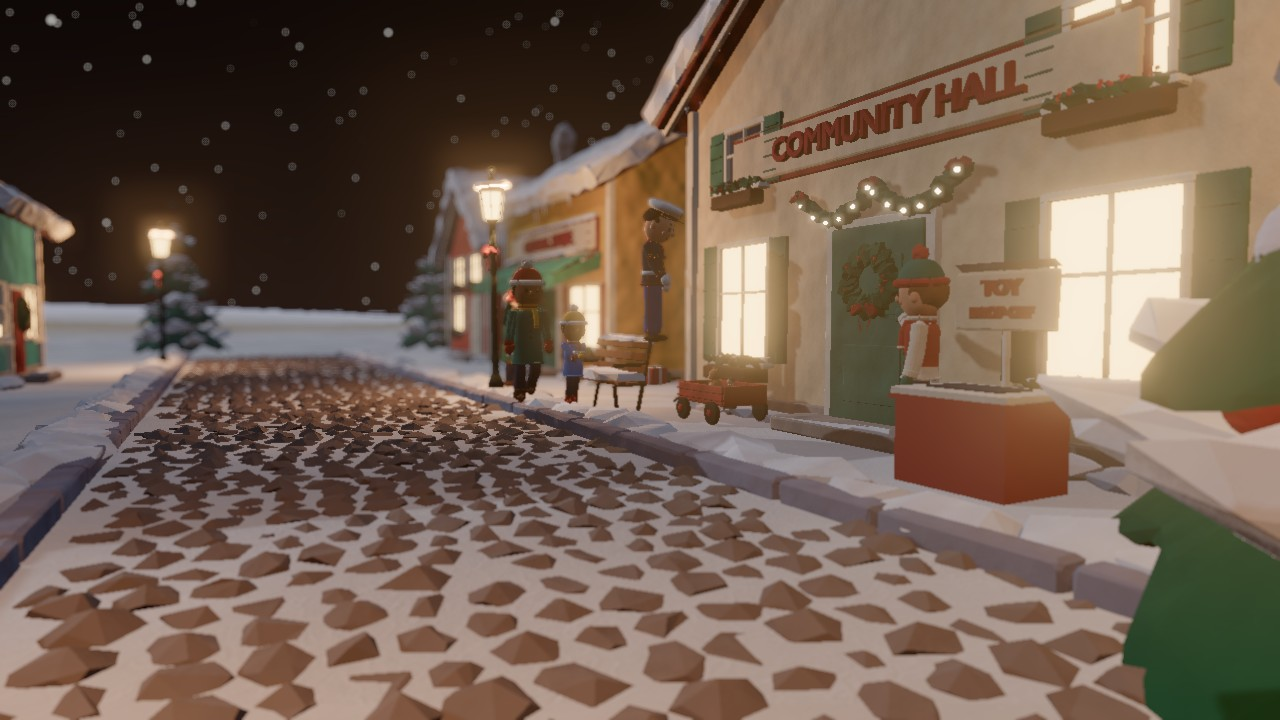
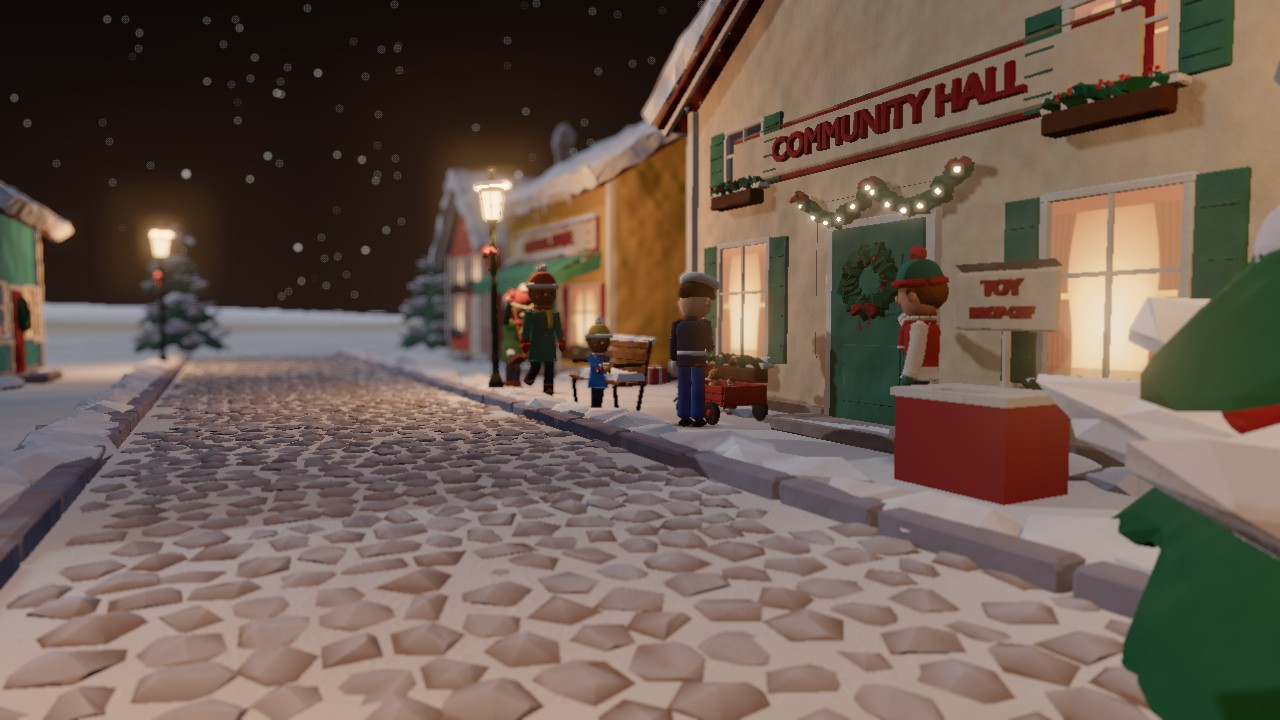
Milestone 2A refinement: handmade materials, review shots, docs
The owner's review said the puppets read as smooth plastic and the cobbles as sharp shards, so the puppets get a light
hand-sculpted surface and the cobbles become flatter, rounded stones. The curtains are a deeper berry, and the carry
starts with a cut so the camera no longer slides past the Marine's face.

The review shots, contact sheets and no-3D stills are re-rendered from this build. The docs record the refinement pass,
its effort and the agreed next step: the interface on this sequence, not Milestone 2B.

finder_map: the "website link opens mid-flight" check was racing the 1.4 s flight under SwiftShader. Playwright's
stability wait alone took about 1.5 s. The link always worked; the test now clicks without the wait and reads the camera
mode at the moment of the click.

Claude-Session: https://claude.ai/code/session_017tNAHcpaXsDX6pdqSWLTrX

diff --git a/web/national/src/scene_donation.js b/web/national/src/scene_donation.js
@@ -18,7 +18,8 @@
 import * as THREE from 'three';
 import { clone as skClone } from 'three/addons/utils/SkeletonUtils.js';
 import { loadGLB, S } from './community.js';
-import { clay as claySurface, LOOK } from './clay.js';
+import { clay as claySurface, LOOK, timeU } from './clay.js';
+import { mergeVertices } from 'three/addons/utils/BufferGeometryUtils.js';
 
 const V = (x = 0, y = 0, z = 0) => new THREE.Vector3(x, y, z);
 const clamp = (x, a = 0, b = 1) => Math.min(b, Math.max(a, x));
@@ -76,6 +77,32 @@ export async function createDonation(town, { assets = './assets/', b64 = null, t
   const group = new THREE.Group(); group.name = 'DonationScene'; root.add(group);
   const clipPlane = new THREE.Plane(V(0, 0, 1), 0);                  // the hall's doorway: who walks in is cut there
 
+  // ---------------------------------------------------------------- hand-sculpted puppets
+  // The puppets' shapes were perfect primitives: next to the lumpy, handmade buildings they read as plastic toys. Their
+  // surfaces get a gentle unevenness (pressed by hand: the silhouette and the shading both), and a faint "boil" that
+  // changes 12 times a second, the way a stop-motion puppet's clay shifts a little between frames.
+  function sculpted(mat) {
+    const prev = mat.onBeforeCompile, key = mat.customProgramCacheKey ? mat.customProgramCacheKey() : '';
+    mat.onBeforeCompile = (sh, r) => {
+      if (prev) prev(sh, r);
+      sh.uniforms.uT = timeU;
+      sh.vertexShader = sh.vertexShader.replace('#include <common>', `#include <common>
+        uniform float uT;
+        float sculptF(vec3 p) { return sin(p.x * 7.1 + 1.3) * sin(p.y * 6.3 + 0.7) * sin(p.z * 7.7 + 2.1) + 0.5 * sin(p.x * 13.3 - p.z * 11.1 + p.y * 3.0); }
+        vec3 sculptG(vec3 p) { return vec3(7.1 * cos(p.x * 7.1 + 1.3) * sin(p.y * 6.3 + 0.7) * sin(p.z * 7.7 + 2.1) + 6.65 * cos(p.x * 13.3 - p.z * 11.1 + p.y * 3.0),
+          6.3 * sin(p.x * 7.1 + 1.3) * cos(p.y * 6.3 + 0.7) * sin(p.z * 7.7 + 2.1) + 1.5 * cos(p.x * 13.3 - p.z * 11.1 + p.y * 3.0),
+          7.7 * sin(p.x * 7.1 + 1.3) * sin(p.y * 6.3 + 0.7) * cos(p.z * 7.7 + 2.1) - 5.55 * cos(p.x * 13.3 - p.z * 11.1 + p.y * 3.0)); }`)
+        .replace('#include <beginnormal_vertex>', `#include <beginnormal_vertex>
+        float sculptB = fract(sin(floor(uT * 12.0) * 12.9898) * 43758.5453);            // the boil: a new frame on twos
+        vec3 sculptP = position + vec3(sculptB * 0.04, sculptB * 0.03, -sculptB * 0.05);
+        vec3 sculptN = objectNormal; float sculptA = 0.0055;
+        { vec3 gq = sculptG(sculptP); objectNormal = normalize(objectNormal - sculptA * 1.6 * (gq - dot(gq, objectNormal) * objectNormal)); }`)
+        .replace('#include <begin_vertex>', `#include <begin_vertex>
+        transformed += sculptN * sculptA * sculptF(sculptP);`);
+    };
+    mat.customProgramCacheKey = () => key + '-sculpted';
+  }
+
   // ---------------------------------------------------------------- the cast (Chapter 1's sculpts, rig and clips)
   function makeChar(g, { scale = 1, colors = [], clip = false } = {}) {
     const obj = skClone(g.scene);
@@ -88,6 +115,7 @@ export async function createDonation(town, { assets = './assets/', b64 = null, t
         for (const [re, col] of colors) if (re.test(m.name)) c.color.set(col);
         const felt = (m.userData && m.userData.kind === 'felt') || /Coat|Trouser/.test(m.name);
         claySurface(c, felt ? 'fabric' : 'clay', true, S * scale);
+        if (!/Eye|Cheek/.test(m.name)) sculpted(c);
         if (clip) c.clippingPlanes = [clipPlane];
         return c;
       });
@@ -187,6 +215,26 @@ export async function createDonation(town, { assets = './assets/', b64 = null, t
     const m = new THREE.Mesh(ng, src.material); m.name = name + '_doorway'; m.castShadow = src.castShadow; m.receiveShadow = true; root.add(m);
     return m;
   }
+
+  // ---------------------------------------------------------------- softer cobbles
+  // The street's cobbles were tall, faceted, dark stones: angular and loud against the soft snow and felt. They are
+  // pressed lower, their facets smoothed into rounded pebbles, their colour softened, and their tops dusted with snow.
+  { let cob = null; root.traverse((o) => { if (o.isMesh && o.name === 'Cobble' && !cob) cob = o; });
+    if (cob) {
+      const g0 = cob.geometry.clone(); g0.deleteAttribute('normal');
+      const P0 = g0.attributes.position, pos = new Float32Array(P0.count * 3);
+      for (let i = 0; i < P0.count; i++) pos.set([P0.getX(i), P0.getY(i) * 0.55, P0.getZ(i)], i * 3);
+      g0.setAttribute('position', new THREE.BufferAttribute(pos, 3));
+      const g = mergeVertices(g0, 1e-4); g.computeVertexNormals();
+      const N = g.attributes.normal, P = g.attributes.position, col = new Float32Array(P.count * 3), stone = new THREE.Color(0x8f7c6e), snow = new THREE.Color(0xeef0f6), c = new THREE.Color();
+      for (let i = 0; i < P.count; i++) {
+        const h = Math.abs(Math.sin(Math.round(P.getX(i) * 60) * 12.9898 + Math.round(P.getZ(i) * 60) * 78.233) * 43758.5453) % 1;   // a little per-stone variation
+        c.copy(stone).multiplyScalar(0.88 + 0.22 * h).lerp(snow, 0.42 * smooth((N.getY(i) - 0.75) / 0.25));
+        col.set([c.r, c.g, c.b], i * 3);
+      }
+      g.setAttribute('color', new THREE.BufferAttribute(col, 3));
+      cob.geometry = g; cob.material.vertexColors = true; cob.material.color.set(0xffffff); cob.material.needsUpdate = true;
+    } }
 
   // ---------------------------------------------------------------- the toy drop-off box, rebuilt so it can be opened
   // The street model's red box (CrateRed) is one solid block. This one has walls, a dark inside, a carton of toys on its

diff --git a/tools/tests/finder_map.js b/tools/tests/finder_map.js
@@ -86,8 +86,12 @@ const still = async (p, path) => { const u = await p.evaluate(() => window.__nat
     await search(p, '00103'); await p.click('.finder-row-btn >> nth=1');
     const flying = await p.evaluate(() => window.__nat.state().mode);
     ok(flying === 'flying' && await p.$('.finder-card') !== null, '2: card shown while the camera is still flying');
-    const [popup] = await Promise.all([ctx.waitForEvent('page'), p.click('a.finder-site')]);
-    ok(popup.url() === 'https://example.org/test-campaigns/lanternfield' && await p.evaluate(() => window.__nat.state().mode) === 'flying', '2: the website link opens mid-flight');
+    // the campaign flight lasts 1.4 s. Under SwiftShader (frames ~200 ms apart) Playwright's stability checks alone can
+    // outlast it, and the popup takes another second to open, so: click without the stability wait, and note the
+    // camera mode at the moment the click reaches the link rather than after the popup has loaded
+    await p.evaluate(() => document.addEventListener('click', (e) => { if (e.target.closest('a.finder-site')) window.__clickMode = window.__nat.state().mode; }, true));
+    const [popup] = await Promise.all([ctx.waitForEvent('page'), p.click('a.finder-site', { force: true })]);
+    ok(popup.url() === 'https://example.org/test-campaigns/lanternfield' && await p.evaluate(() => window.__clickMode) === 'flying', '2: the website link opens mid-flight');
     await popup.close();
     await p.click('.finder-back');
     ok(await sel(p) === null, '2: Back works mid-flight');

diff --git a/docs/MILESTONE2A.md b/docs/MILESTONE2A.md
@@ -66,13 +66,41 @@ two beats.
 twos therefore leaked the last frame's reaches and bends into the next frame, which made the carton jitter. Each
 character now snapshots the clip pose after every update and restores it before the next.
 
+## Refinement pass (after the owner's review, 18–19 November)
+
+The owner's screenshots of the first cut showed problems the tests could not see. Each fix below was judged on rendered
+frames (desktop and phone), not only on the test log.
+
+**Grounding**
+- **The floating Marine** stood beside the wagon on a spot inside the bench's end. The town's ground lookup takes the first surface below it, so it put him on the snow on top of the bench. The scene now has its own ground lookup that only sees the street, sidewalk, curb, drifts and steps. The Marine waits clear of the bench.
+- **The family** walked along the drifts and the curb stones. They now walk the clear sidewalk: the child leads, eager, and the parent catches up at the box.
+- **Contact shadows.** At night the moon's shadow is faint and the lamps cast none. Every puppet now has a soft shadow under the body and one under each foot, darkest when the foot is planted. They are multiplied into the ground's light, because the snow is brighter than white before tone mapping and a dark overlay barely showed.
+
+**Physical interactions**
+- **The box.** The street model's cream top and dark slot were still drawn over the box built for this scene, so the child's arms, the truck and the carton went through a solid top. They are cut out of the street model. The box has a cream lid that the Marine lifts by its lip; it tips back and rests against the sign.
+- **The door.** The wreath and the handle are part of the town's merged holly and brass, so they stayed hanging in the doorway when the door opened. They are cut out and hung on the door.
+
+**Lighting**
+- **The doorway** was a flat card that burned out to white. A real hole is now cut through the hall's wall and its door surround. Behind it is a small entrance room: plaster over a wooden wainscot, a plank floor, a table with cartons of toys waiting to be sorted, paper bunting, and a hanging lamp, the room's only light. The Marine walks in silhouetted against it, and the room sets up the sorting scene.
+- **Lit windows** burned out to flat white rectangles. Each window now shows a lamp-lit room behind curtains: golden in the middle and low, darker towards the frame, at a lower intensity.
+
+**Camera**
+- **The collection** is now filmed from the Marine's left and a little in front, wider and higher: his hands, the lid, the carton rising out of the box with the red truck on top, and the family watching beyond him.
+- **The carry** starts on a cut. The glide passed right by the Marine's face.
+
+**Materials**
+- **The cobbles** are pressed lower and shaded as rounded pebbles rather than facets, in a softer colour, with snow on their tops.
+- **The puppets** get a gentle hand-pressed unevenness (silhouette and shading), and a faint clay "boil" that changes on twos.
+
+**Not yet done:** the cinematic interface (the story card and the chapter bar still sit over the scene), faces and blinks, sound. The interface is the planned next step.
+
 ## Tests
 
 Headless Chromium with SwiftShader (no GPU). These check behaviour, not real-device speed.
 
 | Test | Result |
 | --- | --- |
-| `scene_m2a.js` (new): continuity, collisions, camera, controls, reduced motion, no 3D | 33 ok, 0 fail |
+| `scene_m2a.js` (new): continuity, collisions, camera, controls, reduced motion, no 3D | 33 ok, 0 fail (rerun after the refinement pass) |
 | `toytown_spike.js` (Milestone 1 spike) | 25 ok, 0 fail |
 | `visitor_flow.js` | 140 ok, 0 fail |
 | `national_shell.js` | 42 ok, 0 fail |
@@ -97,6 +125,12 @@ What `scene_m2a.js` measures, sampled every 1/30 s of story time:
 Two fixes came out of the regression run:
 - The 3D chunk no longer poses the town's people on every frame while the country map is shown. It was wasted work, and under SwiftShader it starved the page.
 - The Milestone 1 spike test now checks the still fallback on Chapter 3, because Chapter 2 now plays live.
+
+After the refinement pass every suite above was run again, with the same counts. One `finder_map` check ("the website link
+opens mid-flight") failed twice, and the reason was the test, not the page. The campaign flight lasts 1.4 s. Under
+SwiftShader, Playwright's wait for a stable element took about 1.5 s on its own, so the flight had landed before the check
+read the camera. The link always opened the right page. The test now clicks without that wait and notes the camera mode
+at the moment of the click: 39 ok.
 
 ## Review material
 
@@ -146,8 +180,20 @@ Two fixes came out of the regression run:
   - the ground-following and carry fixes;
   - the per-carrier continuity test;
   - the stills and video tools.
+- **Refinement pass:** about 10 more hours of AI session time (18–19 November), much of it on SwiftShader renders, and an
+  estimated 12–16 developer hours:
+  - the ground lookup and contact shadows;
+  - the opening lid and the door cut into the wall;
+  - the entrance room;
+  - the window texture;
+  - the camera changes;
+  - the material pass.
 
 ## Next milestone: recommendation
+
+**Update after the owner's review:** the owner asked to finish refining this sequence before expanding the world, so 2B
+waits. The next step on this sequence is the cinematic interface (the story card and chapter bar, which still sit over
+the scene), then faces and sound. The original recommendation follows.
 
 **Recommended: the sorting room (Milestone 2B), with interface fixes folded in only where the live scene needs them.**
 - It continues the red truck's thread directly: the carton goes in the door, and the next shot is the sorting room.

diff --git a/docs/PROJECT_STATE.md b/docs/PROJECT_STATE.md
@@ -26,6 +26,15 @@ visitor-paced beats.
 - **Tests:** `tools/tests/scene_m2a.js`, plus the frame, still and video tools `scene_frames.js`, `scene_stills.js` and `scene_video.js`.
 - **Report:** `docs/MILESTONE2A.md`, with the tests, performance notes, creative assessment, effort and the next-milestone recommendation (the sorting room).
 - **Review material:** screenshots and videos in `docs/milestone2a/`. Preview: [Railroad of Hope · Milestone 2A](https://claude.ai/artifact/BnoagS2GRKUSGLYmYvgEkf).
+- **Refinement pass after the owner's review (18–19 November):**
+  - grounded characters with soft contact shadows;
+  - a drop-off box whose lid really opens, and a carton lifted with the truck on top;
+  - a hall door that swings with its wreath, revealing a warm lit entrance room instead of an overexposed glow;
+  - curtained windows with a warm glow (no longer flat white);
+  - a wider collection shot;
+  - softer cobbles and lightly hand-sculpted puppets.
+  Details are under "Refinement pass" in `docs/MILESTONE2A.md`.
+- **Still to do:** the cinematic interface (story card and chapter bar), faces and sound.
 - **Stopped here for review.** The sorting room, distribution, the railroad and the interface redesign are not started.
 
 **Previous: `experiment/phase1-build` (from `experiment/visitor-flow` at `625a80b`). Phase 1 implementation, Milestone 1:
